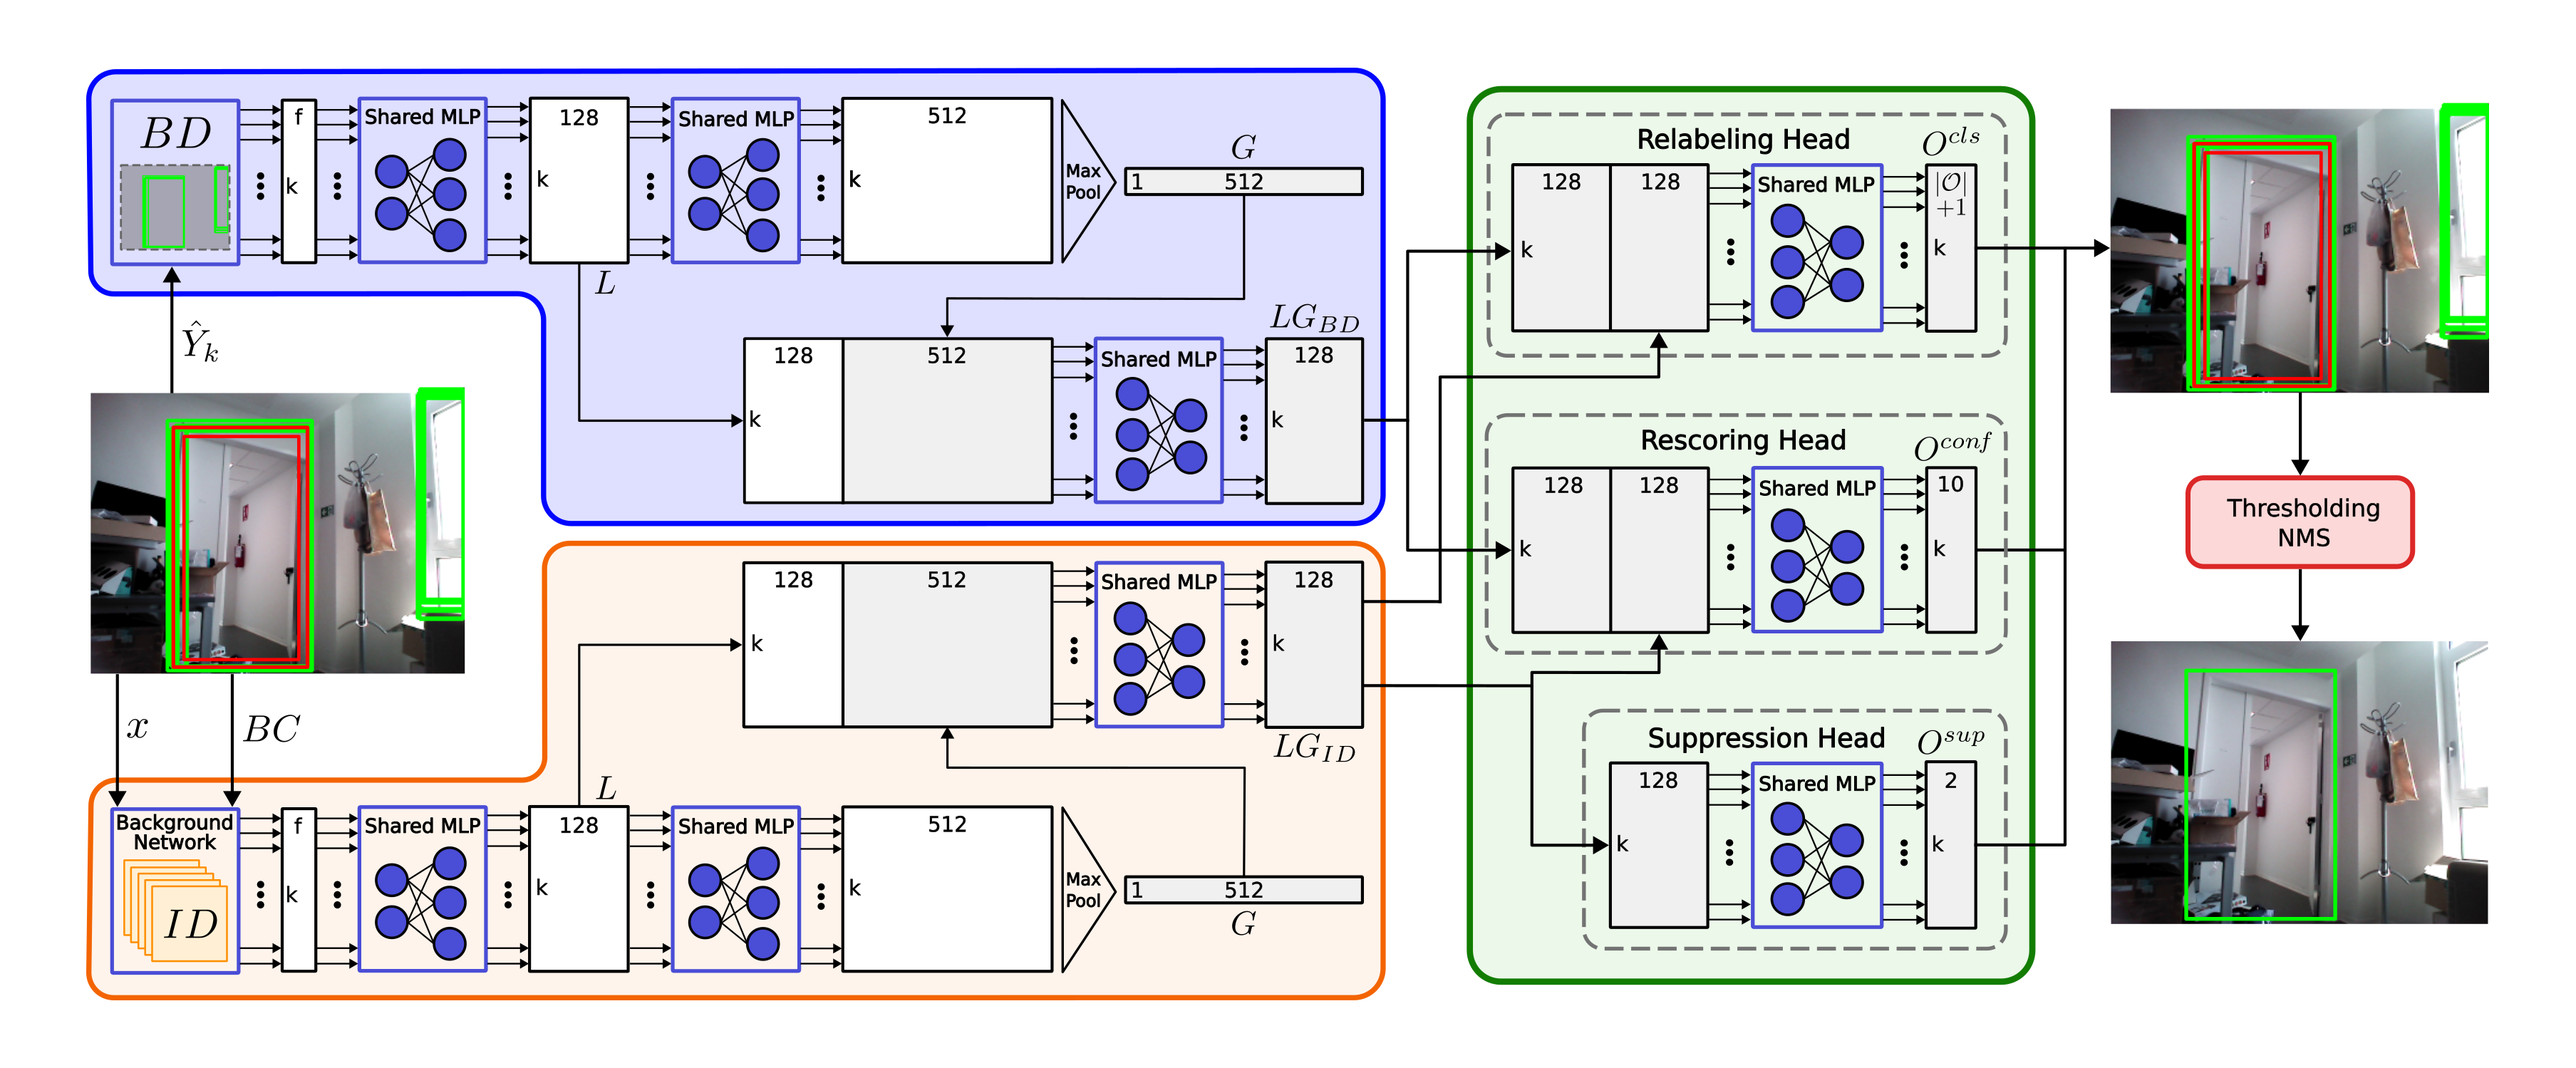
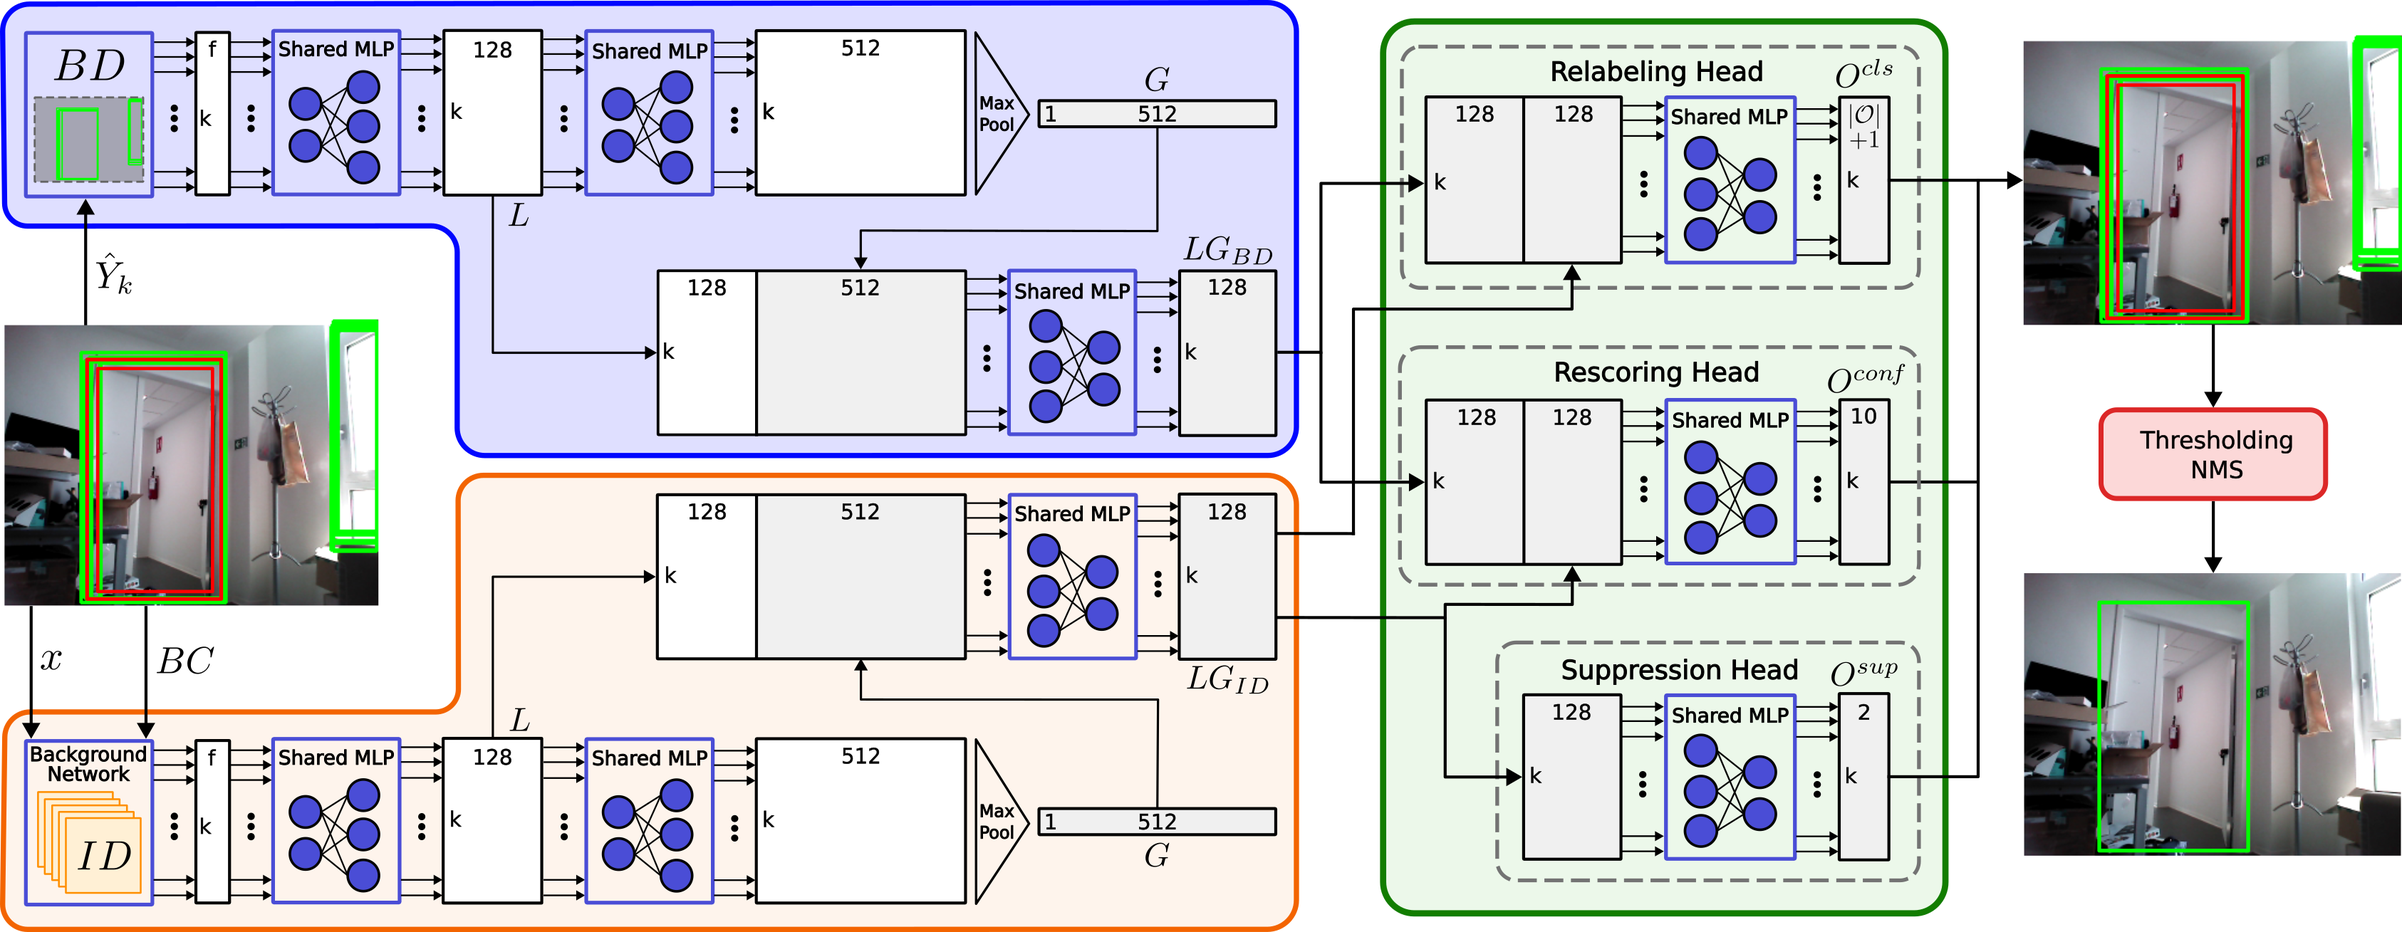
fixed index.html

diff --git a/index.html b/index.html
@@ -142,7 +142,7 @@
                     </p>
                 </div>
                 <div class="content is-centered">
-                    <img src="static/images/cloud_architecture.png" style="width: 60%">
+                    <img src="static/images/cloud_architecture.png" style="width: 80%">
                 </div>
 
             </div>
@@ -177,74 +177,34 @@
                 <div class="content has-text-justified">
                     <p>
                         R2SNet is composed of two parallel networks that process the
-                        proposals descriptors (location, dimension, label, and confidence) and their
-                        features related to their correspondent image portion. Each of them aggregates local and global
-                        features of the proposals using shared MLP and a max operation. Their resulting embeddings are
+                        proposals descriptors (location, dimension, label, and confidence) and the
+                        features related to their correspondent image portion. Each of them extracts local features 
+                        using <b>shared MLPs</b> and a global representation of the proposal set using a permutation invariant <b>max</b> operation. 
+                        These embeddings are
                         aggregated and processed by 3 heads to address the relabeling, rescoring, and suppression of the input proposal.
-                        The image features of each proposals are extracted by the Background Feature extractor Network (BFNet).
-                        It extracts an image embedding with a pyramidal convolutional neural network
-                        that is sliced according the proposals coordinates fully
-                        end-to-end.
                     </p>
                 </div>
-                <div class="container is-max-desktop has-text-centered" style="width: 100%">
-                    <div class="container is-clipped" >
-                        <div id="slider">
-
-                            <div class="card is-centered has-text-centered">
-                                <div class="card-image">
-                                    <figure class="image is-covered ">
-                                        <img
-                                                src="static/images/main_architecture.png"
-                                                alt=""
-                                        />
-                                    </figure>
-                                </div>
-                                <div class="card-content">
-                                    <div class="item__title">
-                                        R2SNet main architecture.
-                                    </div>
-                                    <div class="item__description">
-                                        <!--Ici une petite description pour tester le slider-->
-                                    </div>
-                                </div>
-                            </div>
-
-                            <div class="card">
-                                <div class="card-image">
-                                    <figure class="image is-covered ">
-                                        <img
-                                                src="static/images/background_network.png"
-                                                alt=""
-                                        />
-                                    </figure>
-                                </div>
-                                <div class="card-content">
-                                    <div class="item__title">
-                                        BFNet architecture.
-                                    </div>
-                                    <div class="item__description">
-                                        <!--Ici une petite description pour tester le slider-->
-                                    </div>
-                                </div>
-                            </div>
-
-
-                        </div>
-                    </div>
-                    <script>
-                        bulmaCarousel.attach('#slider', {
-                            slidesToScroll: 1,
-                            slidesToShow: 1,
-                            infinite: true,
-                        });
-                    </script>
-                    <!--
-                    <p class="has-text-centered">
-                        <span class="dnerf">Holodeck</span> can generate diverse types of 3D environments (arcade, spa, museum), customize for styles (victorian, bohemian), and understand fine-grained requirements ("has a cat", "fan of Star Wars").
-                    </p>
-                    -->
+                <div class="content">
+                    <img src="static/images/main_architecture.png">
+                    <small><p>R2SNet architecture.</p></small>
                 </div>
+
+                <div class="content has-text-justified">
+                    <p>
+                        The Background Feature extractor Network (BFNet) extracts the features of each proposal related to their corresponding region of the image.
+                        At first, BFNet extracts an image embedding using a multi–scale <b>CNN backbone</b>
+                        with residual connections where the 3 embeddings are processed with convolutional
+                        layers and step-by-step top-down aggregated through upsampling and summation.
+                        To speed up the inference time, the image embedding is mapped to each proposal with
+                        a <b>binary mask</b> generated by 4 MLPs with fixed weights which
+                        suppresses the features exceeding the bounding box's boundaries.
+                    </p>
+                </div>
+                <div class="content">
+                    <img src="static/images/background_network.png">
+                    <small><p>BFNet architecture.</p></small>
+                </div>
+
 
             </div>
         </div>
